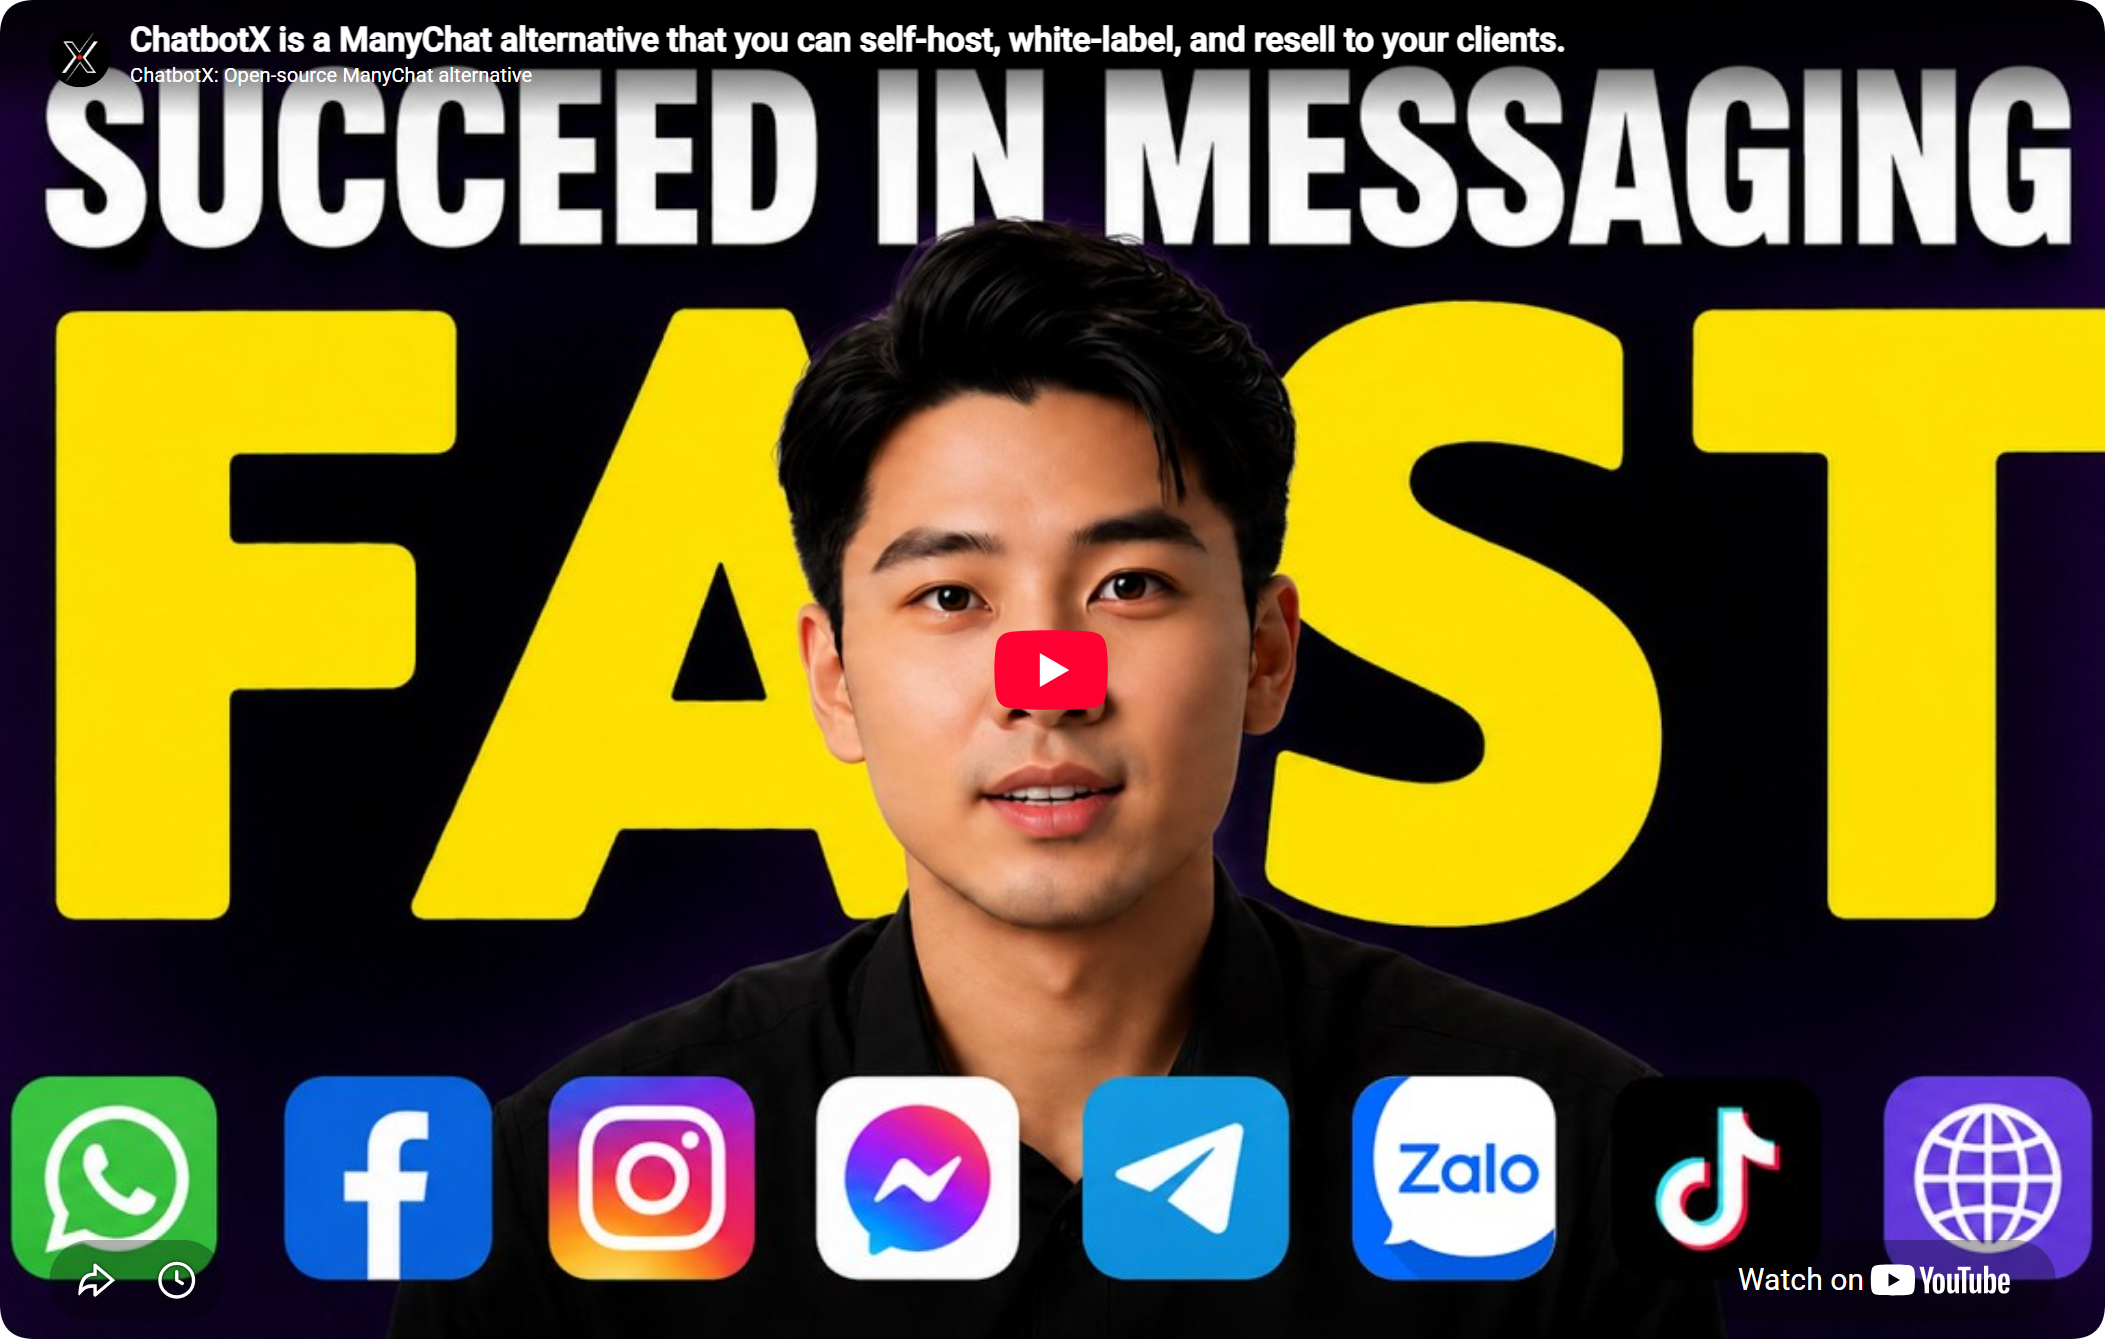
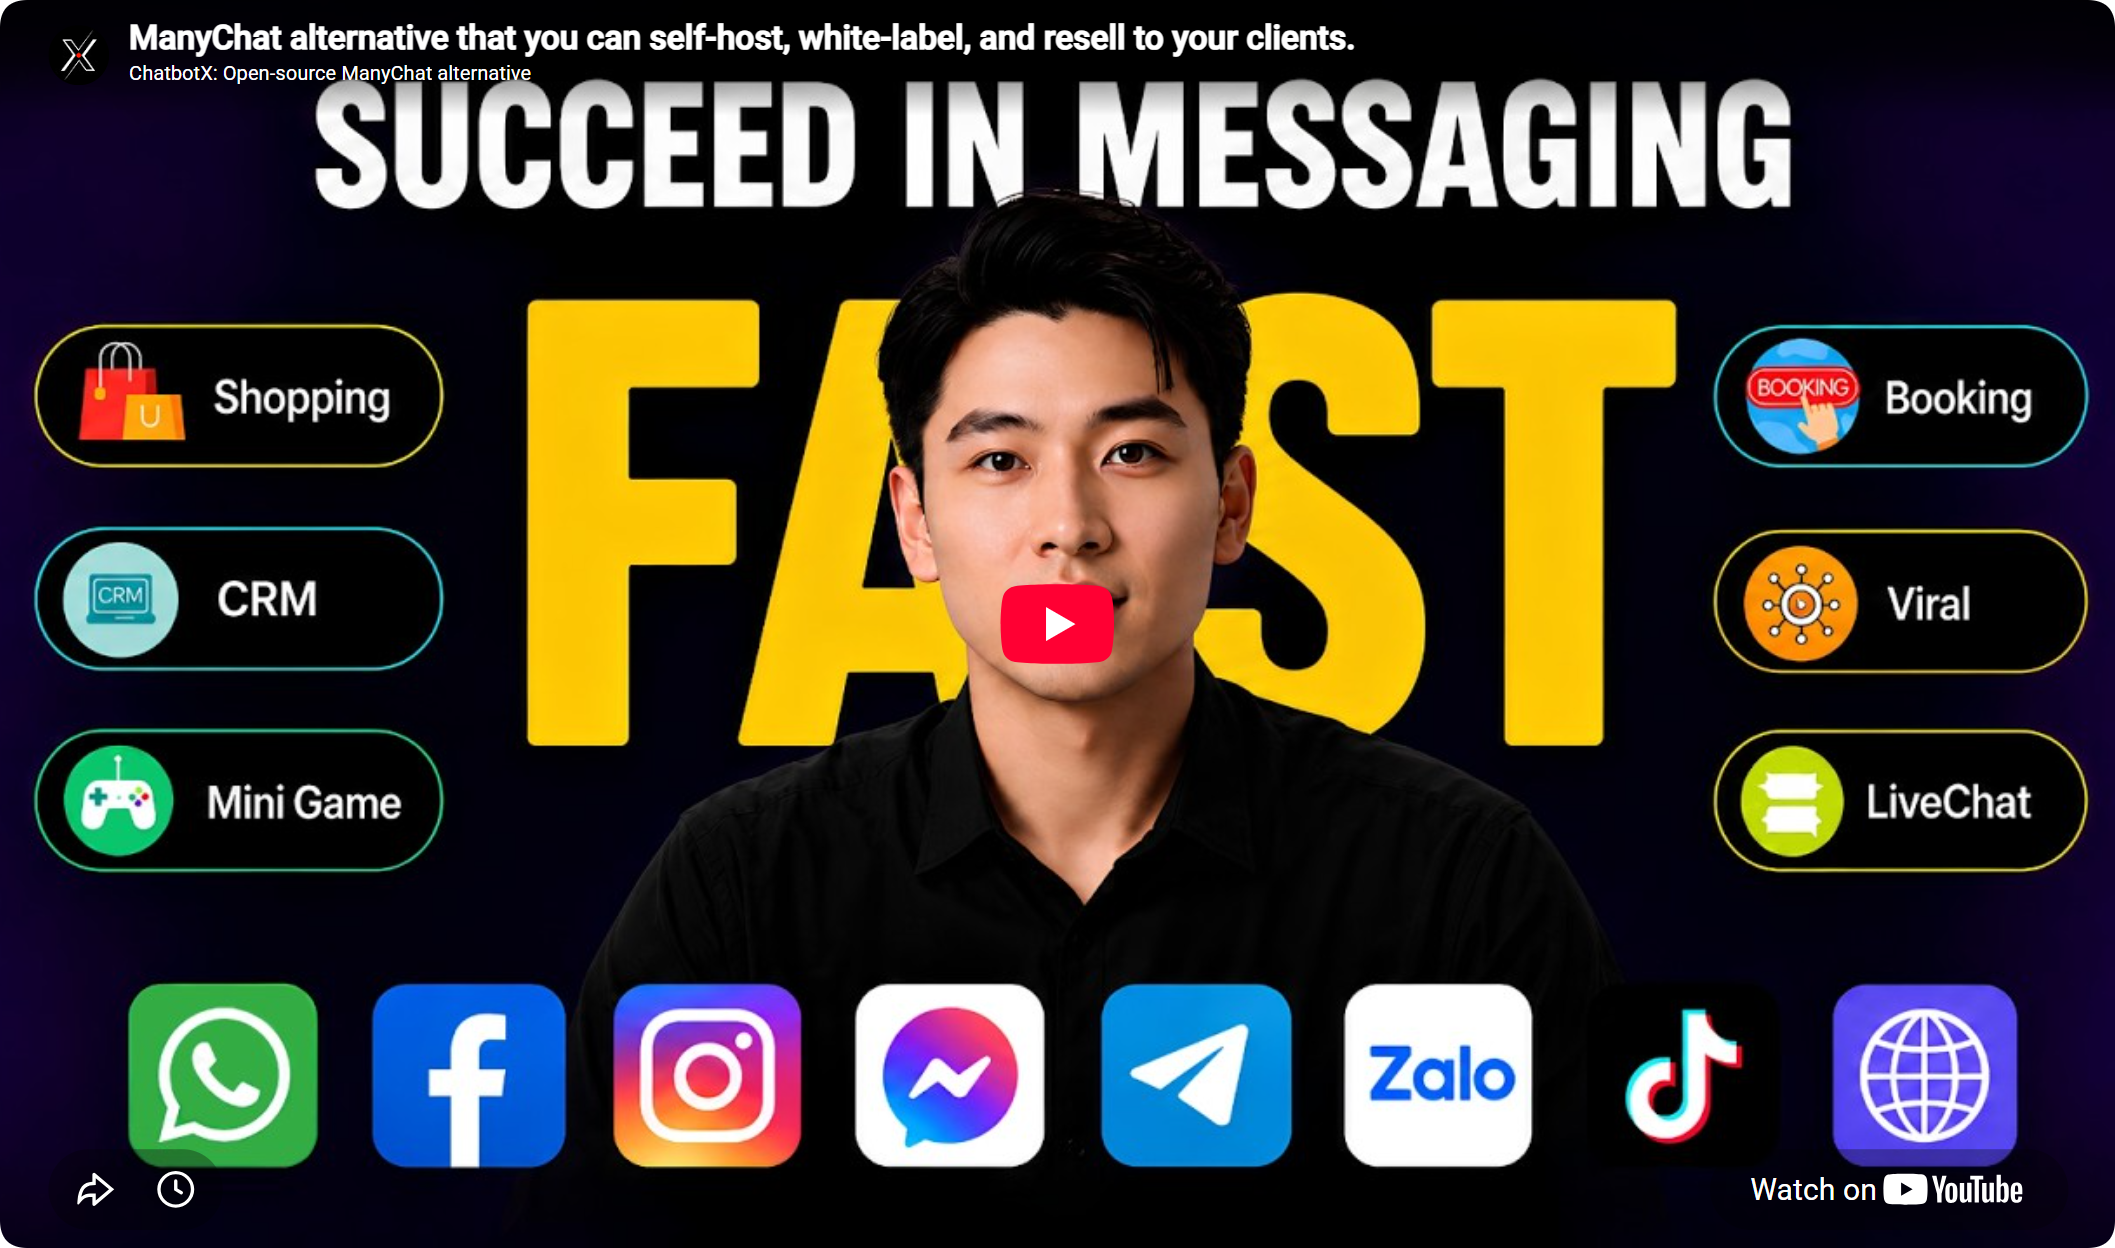
docs(readme): update Growth Tools description and hero screenshot
- Reword Growth Tools feature bullet to reflect minigames and
  interactive experiences instead of conversation starter links
- Update chatbotx-hero.png with the latest product screenshot

diff --git a/README.md b/README.md
@@ -94,7 +94,7 @@
 - **A/B Testing:** Test and optimize different message flows
 - **Triggers:** Execute actions based on events within your bot
 - **Webhooks & HTTP:** Integrate external APIs directly into your flows
-- **Growth Tools:** Generate conversation starter links for each platform
+- **Growth Tools:** Create engaging minigames and interactive experiences
 - **Analytics:** Track performance metrics, user engagement, and campaign results
 - **APIs, CLI, and MCP:** Build advanced agent workflows with MCP-compatible clients
 
